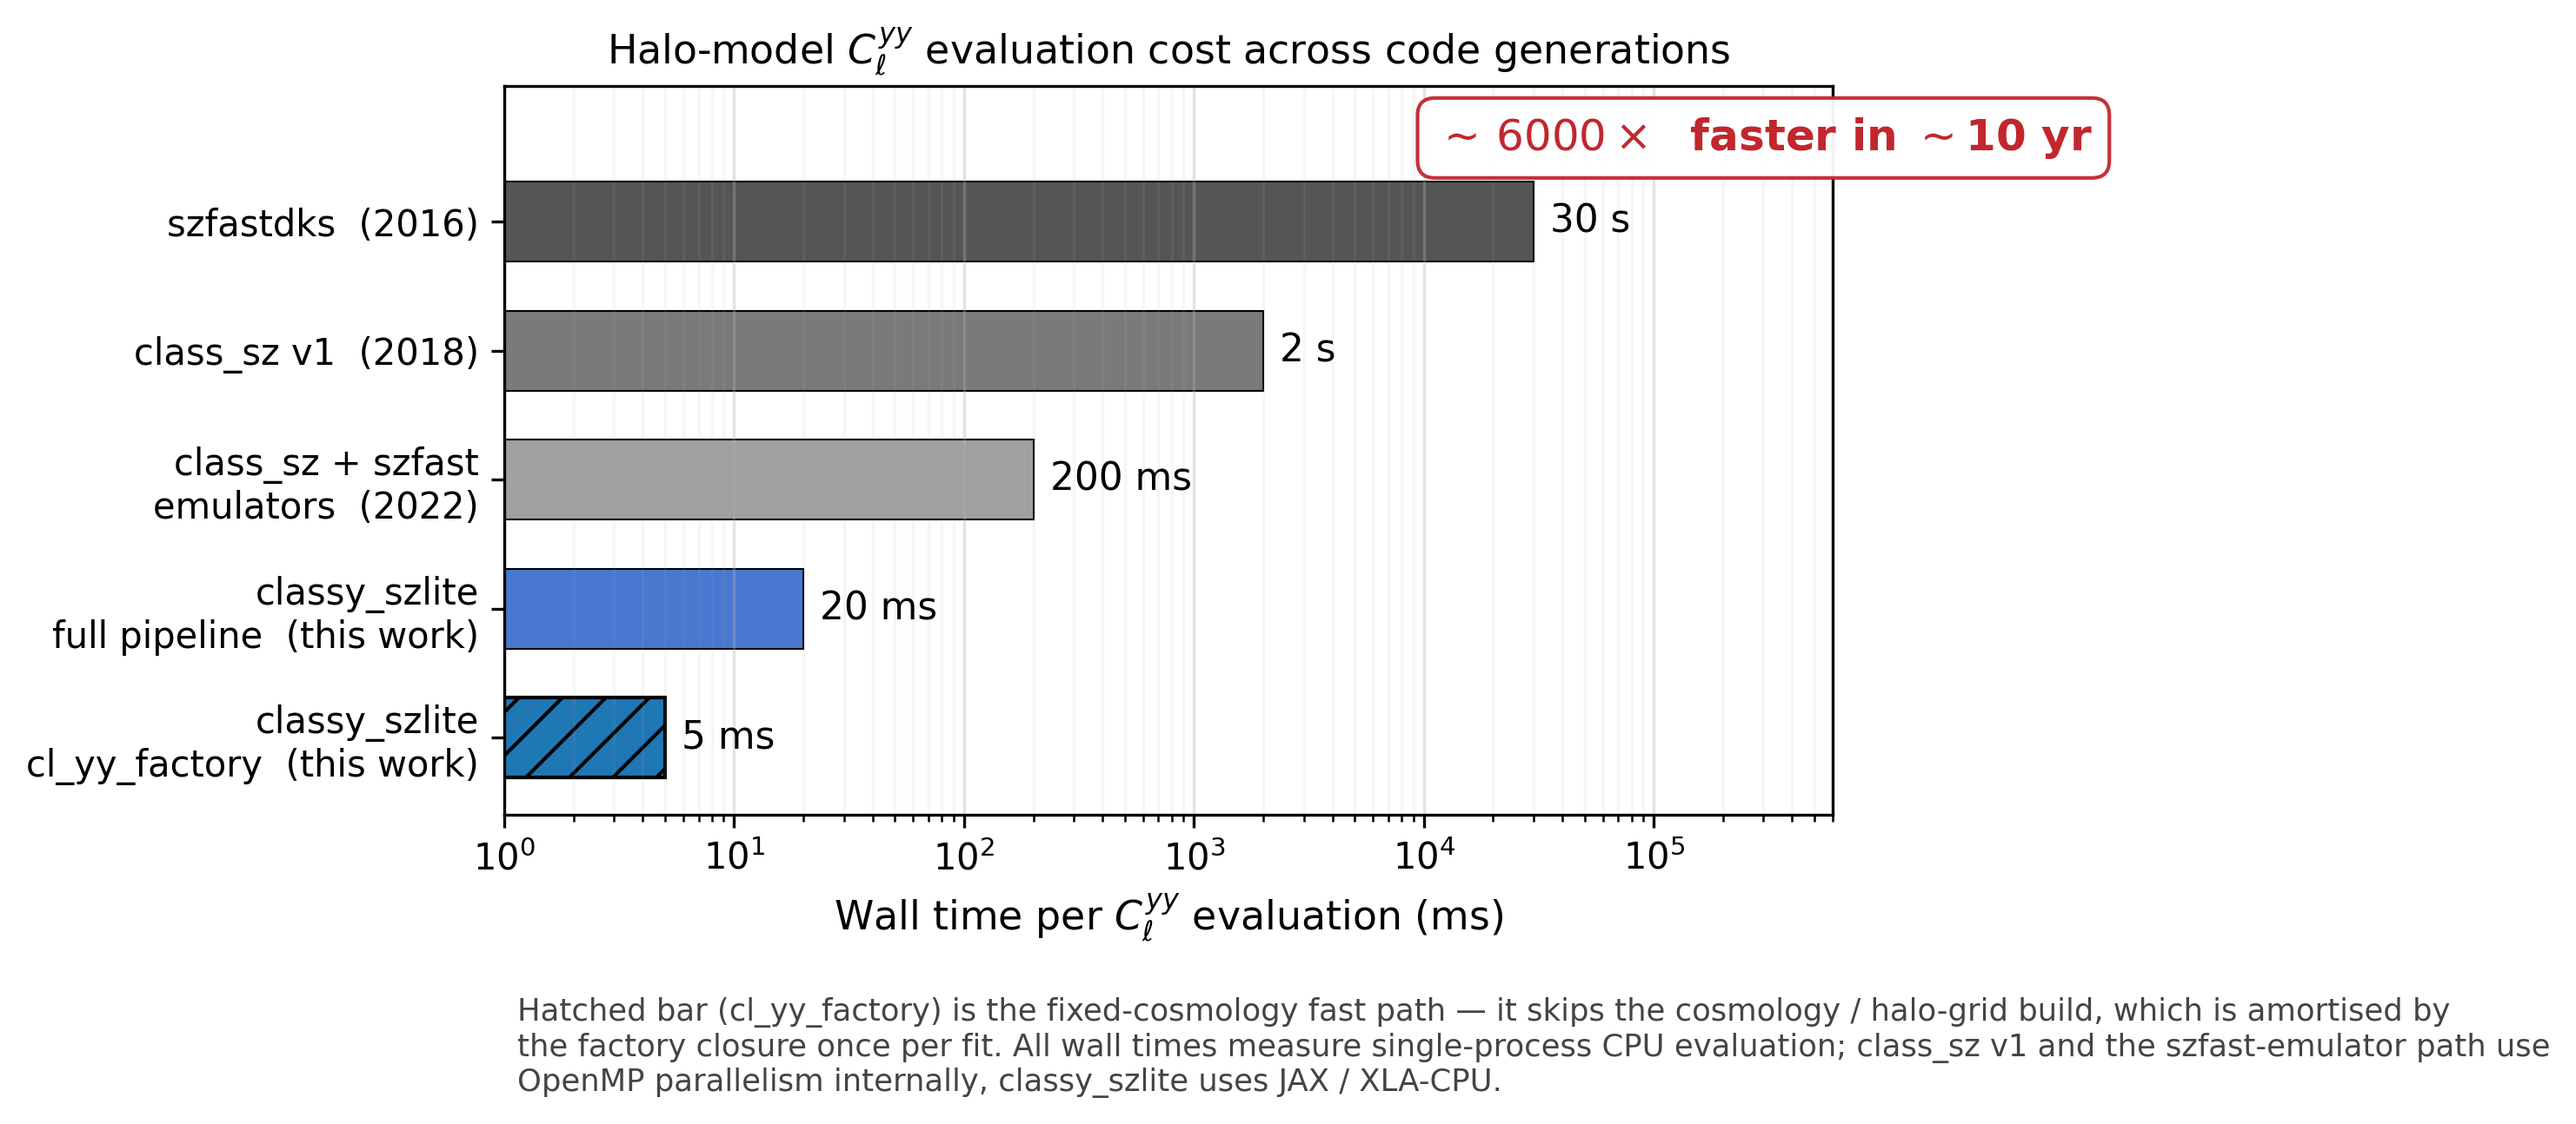
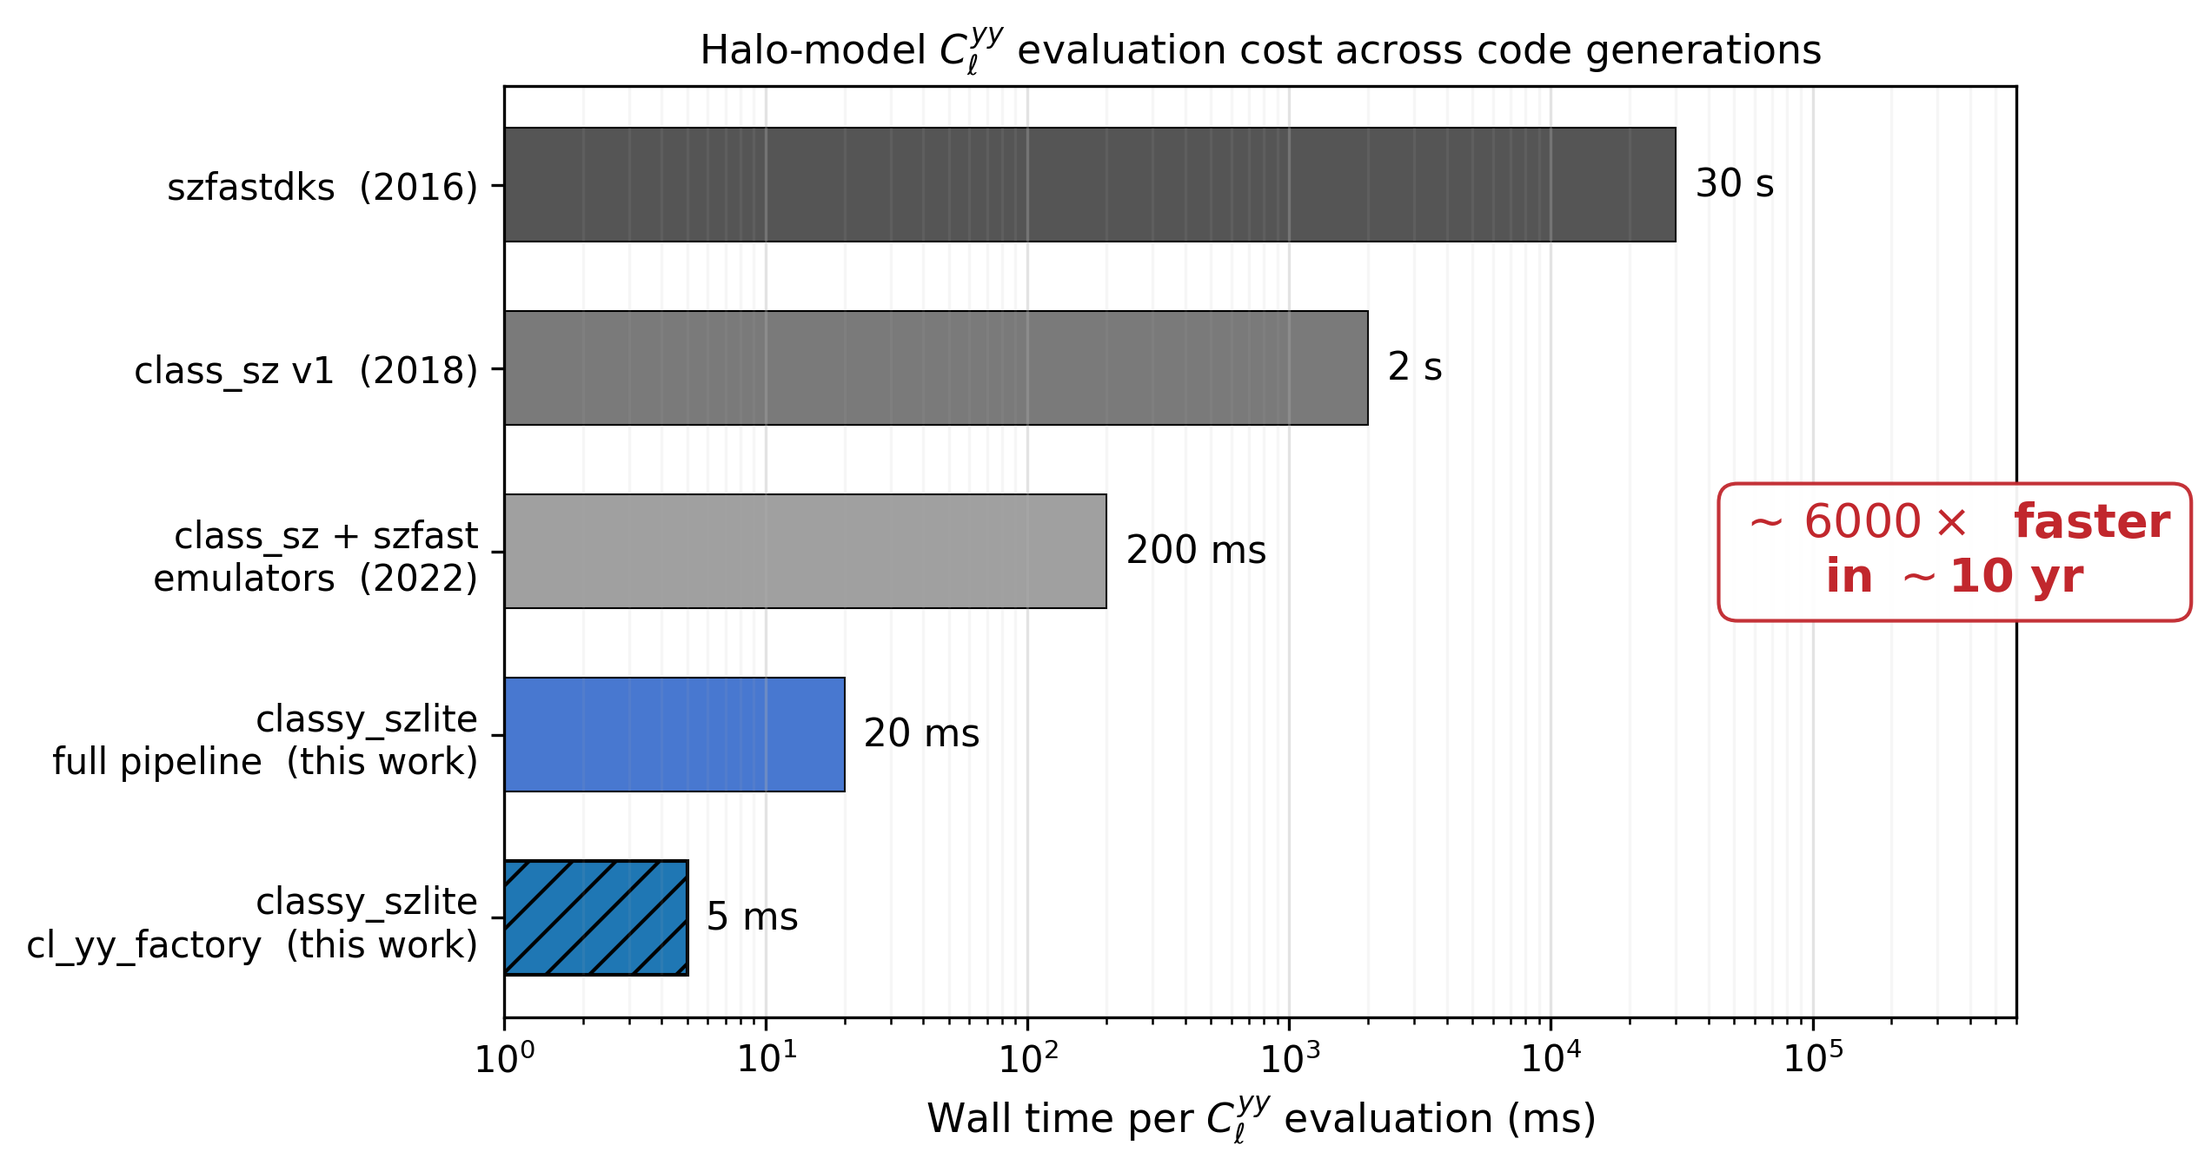
README: sync timing_history.png + move explanation to markdown
Pulled the in-figure footer out of the PNG (it was cluttering the
plot) and into the README markdown directly under the figure. Same
content: hatched bar = fixed-cosmology fast path; thread models per
entry (OpenMP for class_sz, JAX/XLA-CPU for classy_szlite). Image
re-synced from classy_szlite-paper @ ffd7212.

Changed region(s): [[0.0312, 0.0309, 0.9059, 0.8346], [0.1874, 0.8655, 0.9996, 0.9892], [0.7809, 0.4019, 0.9996, 0.5564]]

diff --git a/README.md b/README.md
@@ -89,6 +89,12 @@ acceleration of halo-model $C_\ell^{yy}$ evaluation:
 
 ![Halo-model Cl^yy evaluation cost across code generations](docs/_static/timing_history.png)
 
+The hatched `cl_yy_factory` bar is the *fixed-cosmology fast path* — it
+skips the cosmology and halo-grid build, which the factory closure
+amortises once per fit. All wall times are single-process CPU
+evaluation: `class_sz` v1 and the szfast-emulator path use OpenMP
+parallelism internally, `classy_szlite` uses JAX / XLA-CPU.
+
 Warm-call timing, n = 100 calls per benchmark, freshly randomised inputs:
 
 | Function | mean ± std (ms) | calls/s |
